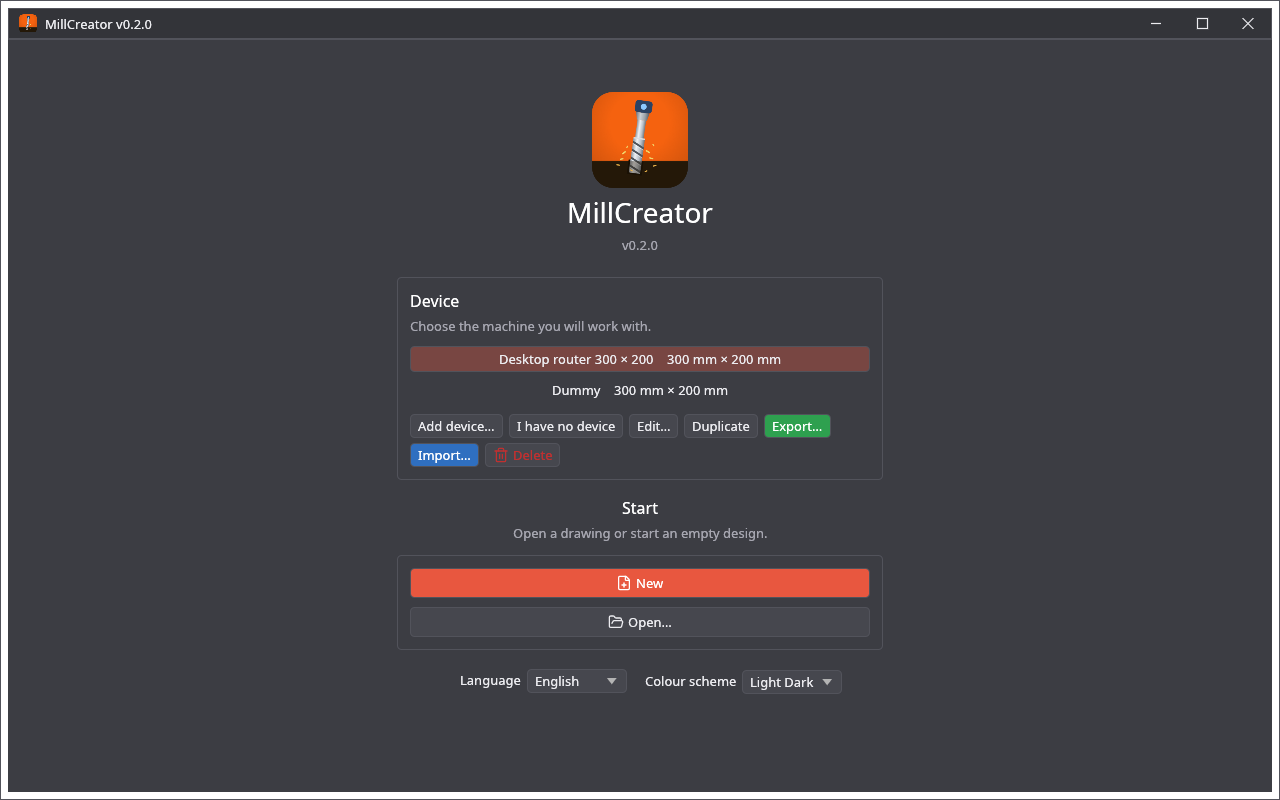
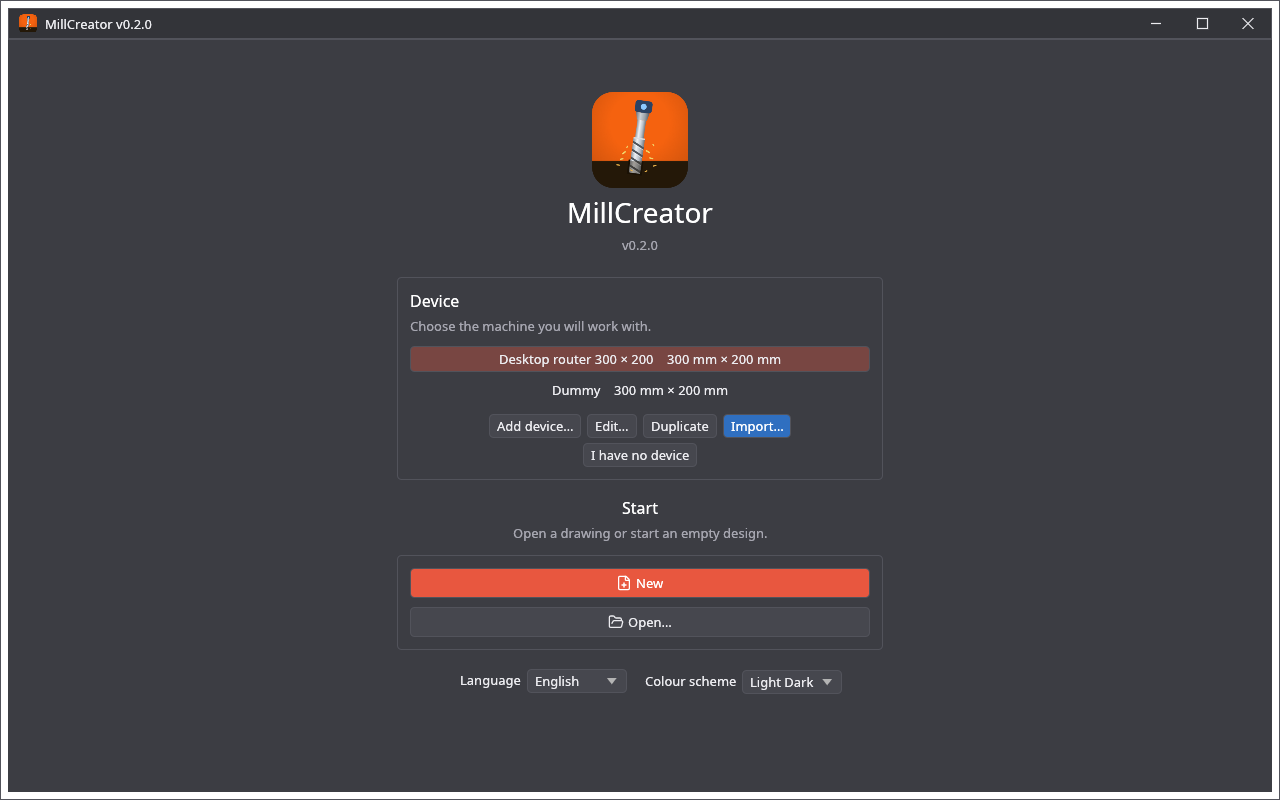
Start screen, device section: Add, Edit, Duplicate, Import in the first row and I have no device in the second, centred; Export and Delete move into the Edit window
Needs baseCreator v0.8.1 (widgets::centered_row).

Changed region(s): [[0.4688, 0.5, 0.6562, 0.5938], [0.3125, 0.5312, 0.4688, 0.5938]]

diff --git a/crates/millcreator/src/device_ui.rs b/crates/millcreator/src/device_ui.rs
@@ -10,7 +10,8 @@ use base_ui::editor::EditorHost;
 use base_ui::i18n::{tr, trf};
 use base_ui::theme;
 use base_ui::units_ui::{drag_len, fmt_len};
-use base_ui::window::{delete_button_enabled, import_button, popup, save_button_enabled};
+use base_ui::widgets::centered_row;
+use base_ui::window::{delete_button, import_button, popup, save_button_enabled};
 use eframe::egui::{self, Color32, RichText};
 
 #[derive(Clone, Copy, PartialEq, Eq, Debug)]
@@ -90,6 +91,7 @@ impl App {
     }
 
     pub(crate) fn start_edit_device(&mut self, idx: usize) {
+        self.confirm_delete = false;
         if let Some(d) = self.devices.get(idx) {
             self.dev_edit = Some(DeviceEdit { idx: Some(idx), draft: d.clone(), page: Page::General, error: String::new() });
         }
@@ -165,12 +167,9 @@ impl App {
         });
         ui.add_space(6.0);
         let has = !self.devices.is_empty();
-        ui.horizontal_wrapped(|ui| {
+        centered_row(ui, "device_buttons_1", |ui| {
             if ui.button(tr("Add device…")).clicked() {
                 self.start_add_device();
-            }
-            if ui.button(tr("I have no device")).on_hover_text(tr("Work on a project without a machine: a plain device called Dummy, with the default work area and speeds")).clicked() {
-                self.use_dummy_device();
             }
             if ui.add_enabled(has, egui::Button::new(tr("Edit…"))).clicked() {
                 self.start_edit_device(self.start_sel);
@@ -178,23 +177,13 @@ impl App {
             if ui.add_enabled(has, egui::Button::new(tr("Duplicate"))).clicked() {
                 self.duplicate_device(self.start_sel);
             }
-            if save_button_enabled(ui, has, &tr("Export…")).on_hover_text(tr("Save this device to a file")).clicked() {
-                self.export_device_dialog(self.start_sel);
-            }
             if import_button(ui, &tr("Import…")).on_hover_text(tr("Read a device from a file")).clicked() {
                 self.import_device_dialog();
             }
-            if self.confirm_delete && has {
-                if base_ui::window::delete_button(ui, &tr("Confirm delete")).clicked() {
-                    self.devices.remove(self.start_sel);
-                    self.confirm_delete = false;
-                    self.active = None;
-                }
-                if ui.button(tr("Cancel")).clicked() {
-                    self.confirm_delete = false;
-                }
-            } else if delete_button_enabled(ui, has, &tr("Delete")).clicked() {
-                self.confirm_delete = true;
+        });
+        centered_row(ui, "device_buttons_2", |ui| {
+            if ui.button(tr("I have no device")).on_hover_text(tr("Work on a project without a machine: a plain device called Dummy, with the default work area and speeds")).clicked() {
+                self.use_dummy_device();
             }
         });
     }
@@ -205,6 +194,10 @@ impl App {
         let mut open = true;
         let mut save = false;
         let mut cancel = false;
+        let mut export = false;
+        let mut ask_delete = false;
+        let mut delete = false;
+        let confirm = self.confirm_delete;
         let new = edit.idx.is_none();
         let title = if new { tr("Add a device") } else { tr("Device settings") };
         popup(ctx, "device_window", &title, [620.0, 540.0], &mut open, |ui| {
@@ -298,9 +291,42 @@ impl App {
                 if ui.button(tr("Cancel")).clicked() {
                     cancel = true;
                 }
+                if !new {
+                    ui.separator();
+                    if save_button_enabled(ui, true, &tr("Export…")).on_hover_text(tr("Save this device to a file")).clicked() {
+                        export = true;
+                    }
+                    if confirm {
+                        if delete_button(ui, &tr("Confirm delete")).clicked() {
+                            delete = true;
+                        }
+                    } else if delete_button(ui, &tr("Delete")).clicked() {
+                        ask_delete = true;
+                    }
+                }
             });
         });
+        if let Some(i) = edit.idx {
+            if export {
+                self.export_device_dialog(i);
+            }
+            if ask_delete {
+                self.confirm_delete = true;
+            }
+            if delete && i < self.devices.len() {
+                self.devices.remove(i);
+                self.confirm_delete = false;
+                self.active = match self.active {
+                    Some(a) if a == i => None,
+                    Some(a) if a > i => Some(a - 1),
+                    other => other,
+                };
+                self.start_sel = self.start_sel.min(self.devices.len().saturating_sub(1));
+                return;
+            }
+        }
         if cancel {
+            self.confirm_delete = false;
             open = false;
         }
         if save {

diff --git a/docs/wiki/Devices-and-Cameras.md b/docs/wiki/Devices-and-Cameras.md
@@ -7,7 +7,7 @@ A **device** is a milling machine. The list of devices is kept between runs and 
 ![Add a device](https://raw.githubusercontent.com/michalsarna/MillCreator/main/docs/screenshots/02-add-device.png)
 
 ## Buttons on the start screen
-**Add device…**, **I have no device**, **Edit…**, **Duplicate**, **Export…** (one device as a JSON file), **Import…** (strictly checked: a newer format, a wrong number or a file over 2 MB is refused) and **Delete** (asks to confirm). A copy or an imported device with a name that is taken gets a number: `Router (2)`.
+**Add device…**, **Edit…**, **Duplicate** and **Import…** (strictly checked: a newer format, a wrong number or a file over 2 MB is refused) in the first row and **I have no device** in the second. **Export…** (one device as a JSON file) and **Delete** (asks to confirm) are in the window of **Edit…**. A copy or an imported device with a name that is taken gets a number: `Router (2)`.
 
 ## I have no device
 Makes, once, a plain device called **Dummy**: a 300 × 200 mm work area with 60 mm of travel in Z, safe height 5 mm, spindle 1000–24000 rpm. It stays in the list like any other device and can be edited; the project is saved with it as its machine. **New** and **Open…** without any device make and use it too.

diff --git a/docs/wiki/Urzadzenia-i-kamery.md b/docs/wiki/Urzadzenia-i-kamery.md
@@ -7,7 +7,7 @@
 ![Dodawanie urządzenia](https://raw.githubusercontent.com/michalsarna/MillCreator/main/docs/screenshots/02-add-device.png)
 
 ## Przyciski ekranu startowego
-**Add device…**, **I have no device**, **Edit…**, **Duplicate**, **Export…** (jedno urządzenie jako plik JSON), **Import…** (ściśle sprawdzany: nowszy format, błędna liczba lub plik ponad 2 MB są odrzucane) i **Delete** (prosi o potwierdzenie). Kopia lub importowane urządzenie o zajętej nazwie dostaje numer: `Router (2)`.
+**Add device…**, **Edit…**, **Duplicate** i **Import…** (ściśle sprawdzany: nowszy format, błędna liczba lub plik ponad 2 MB są odrzucane) w pierwszym rzędzie oraz **I have no device** w drugim. **Export…** (jedno urządzenie jako plik JSON) i **Delete** (prosi o potwierdzenie) są w oknie **Edit…**. Kopia lub importowane urządzenie o zajętej nazwie dostaje numer: `Router (2)`.
 
 ## Nie mam urządzenia
 Tworzy jednorazowo zwykłe urządzenie o nazwie **Dummy**: pole robocze 300 × 200 mm, 60 mm skoku w Z, bezpieczna wysokość 5 mm, wrzeciono 1000–24000 obr/min. Zostaje na liście jak każde inne i można je edytować; projekt zapisuje się z nim jako z maszyną.
